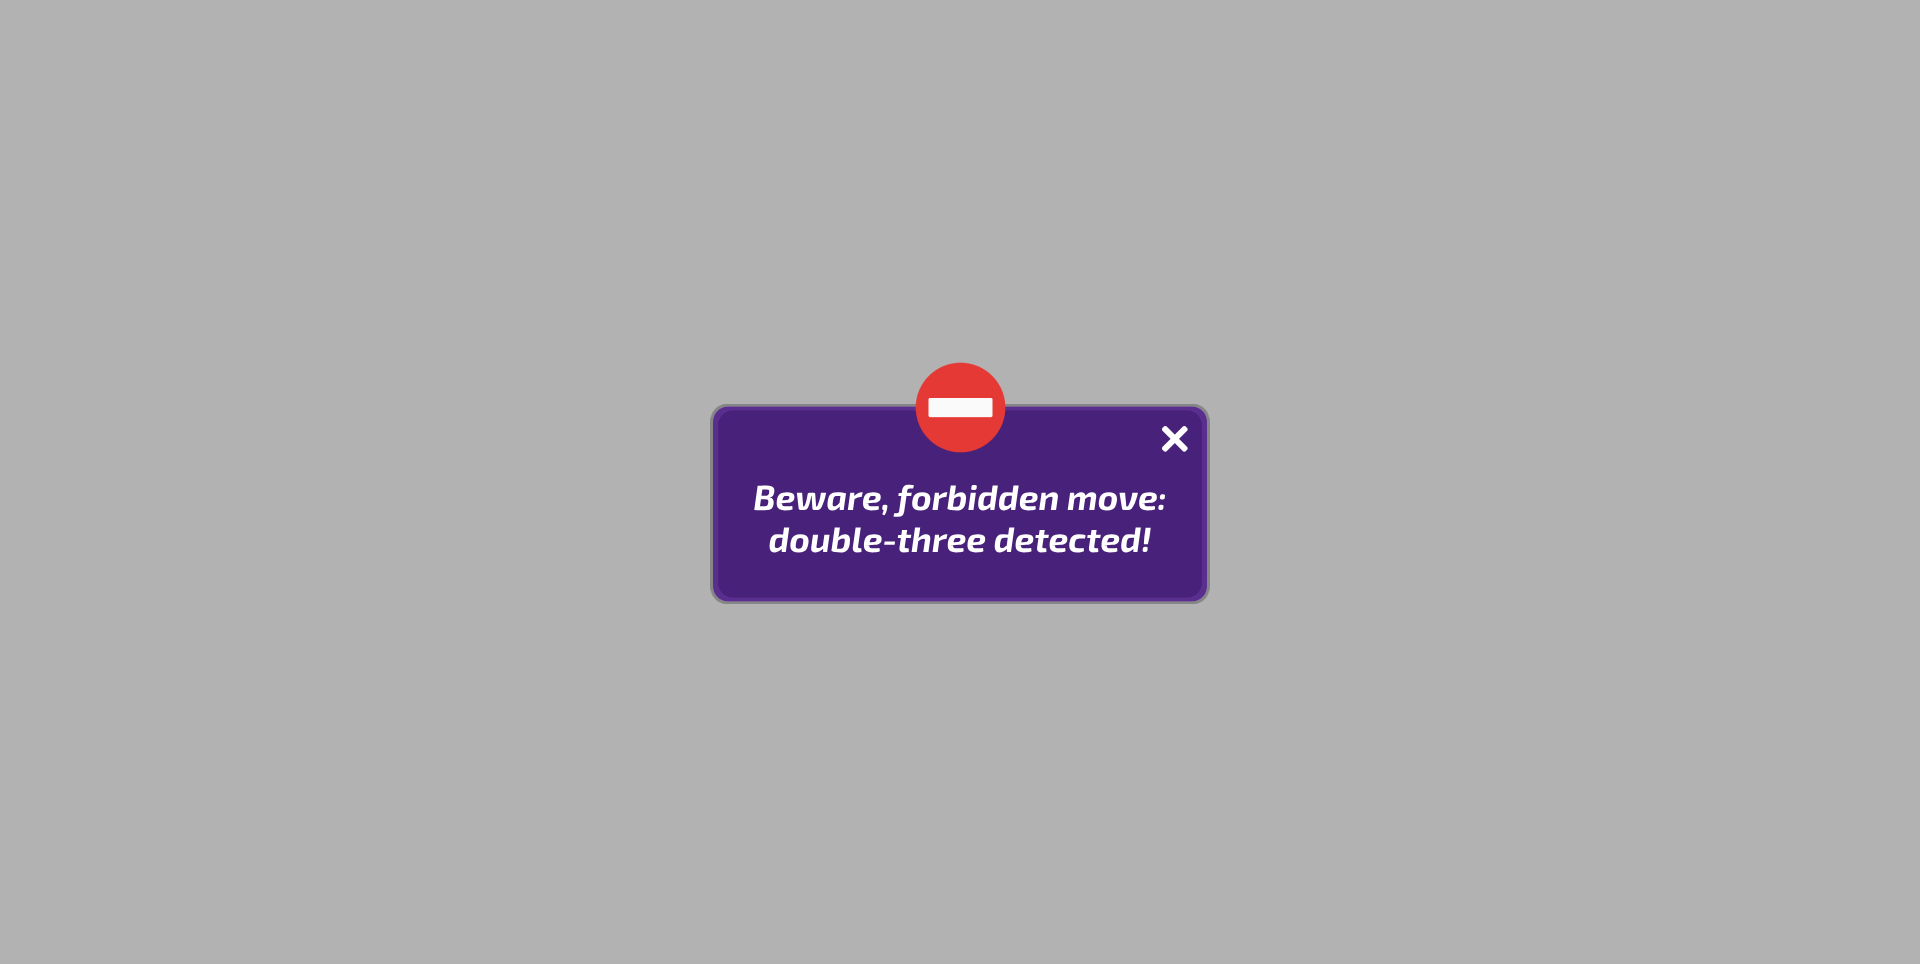
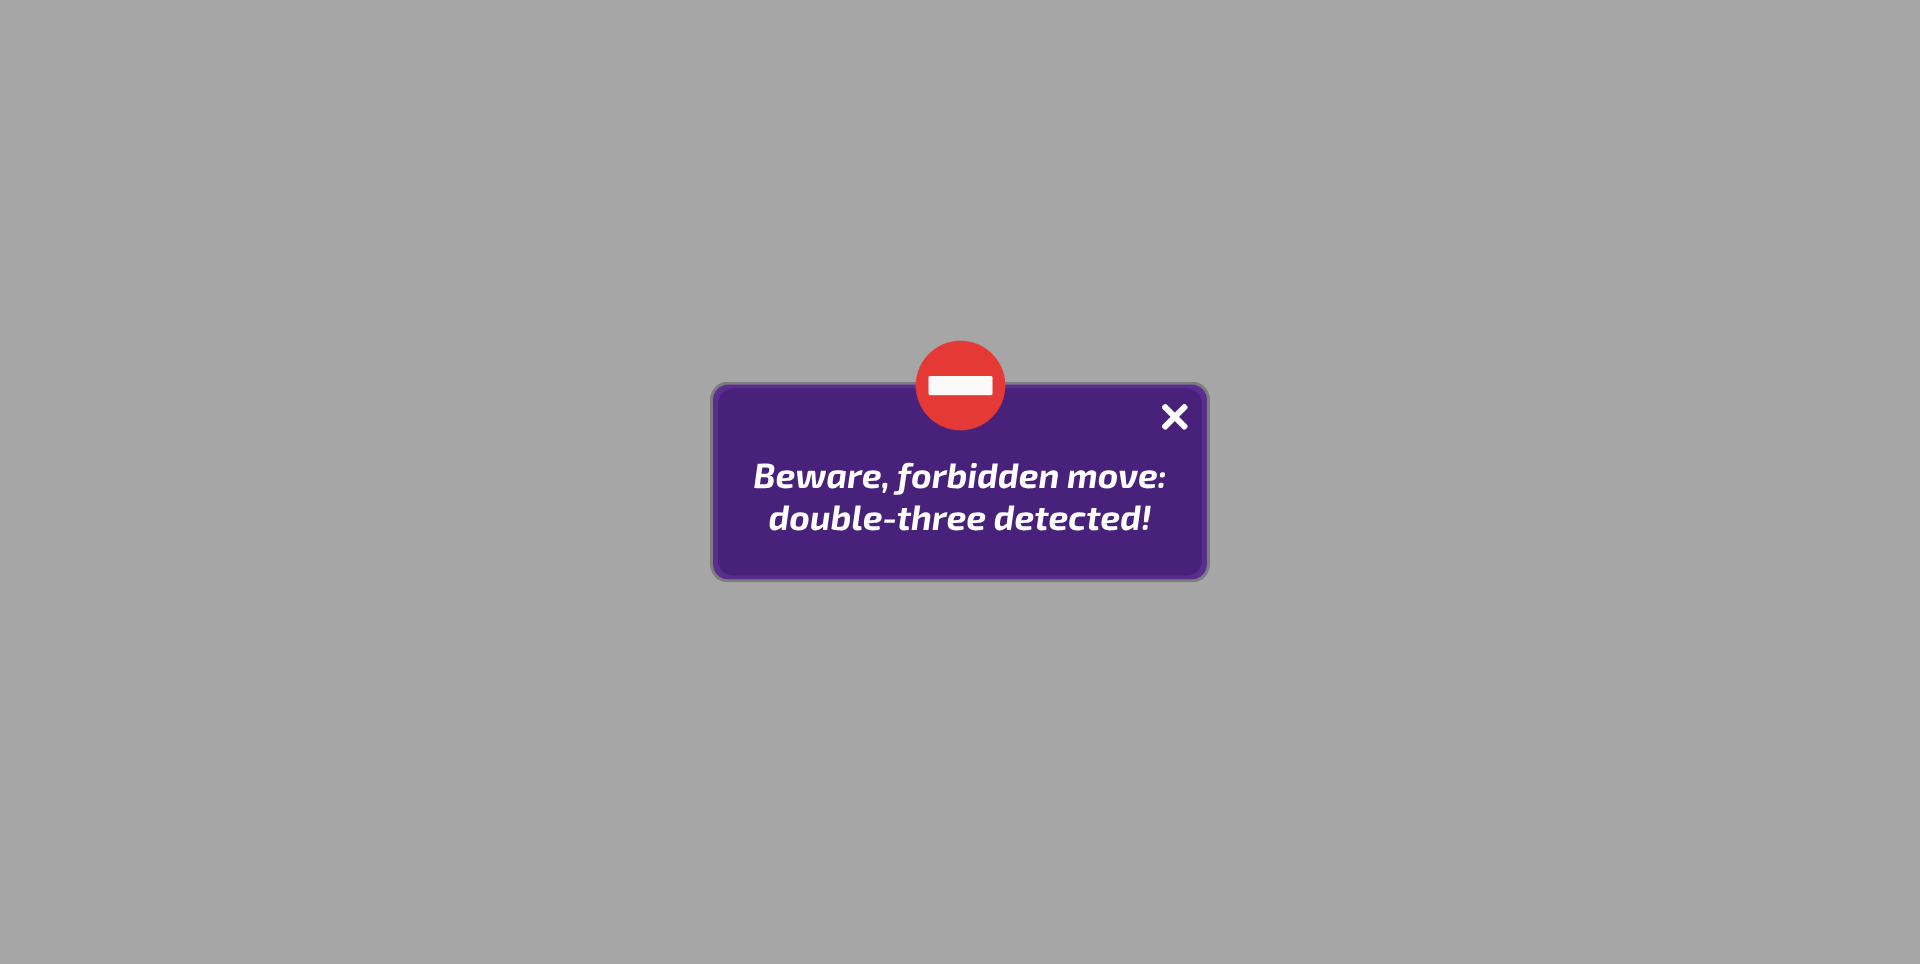
Finishing double-three pop-up

Changed region(s): [[0.3438, 0.3423, 0.6562, 0.6535]]

diff --git a/src/Graphics/Game/Gameplay.cpp b/src/Graphics/Game/Gameplay.cpp
@@ -6,7 +6,7 @@
 /*   By: laprieur <laprieur@student.42.fr>          +#+  +:+       +#+        */
 /*                                                +#+#+#+#+#+   +#+           */
 /*   Created: 2024/07/30 14:10:25 by hsebille          #+#    #+#             */
-/*   Updated: 2024/08/01 23:39:45 by laprieur         ###   ########.fr       */
+/*   Updated: 2024/08/02 15:28:09 by laprieur         ###   ########.fr       */
 /*                                                                            */
 /* ************************************************************************** */
 
@@ -34,10 +34,8 @@ void	Gameplay::display(const sf::Event& event, sf::RenderWindow& window, const B
 	window.draw(_secondPlayerAvatarSprite);
 	window.draw(_gridAndIndexSprite);
 	drawStones(window, bitboard);
-	if (forbiddenMoves == DOUBLE_THREE) {
-		_popupSprite.setTexture(_popupTexture);
-		window.draw(_popupSprite);
-	}
+	if (forbiddenMoves == DOUBLE_THREE)
+		popUp(event, window);
 }
 
 void	Gameplay::returnButton(const sf::Event& event, const sf::RenderWindow& window) {
@@ -50,6 +48,21 @@ void	Gameplay::returnButton(const sf::Event& event, const sf::RenderWindow& wind
 	if (event.type == sf::Event::MouseButtonPressed)
 		if (_backwardButtonSprite.getGlobalBounds().contains(window.mapPixelToCoords(sf::Mouse::getPosition(window))))
 			gameState = MENU;
+}
+
+void	Gameplay::popUp(const sf::Event& event, sf::RenderWindow& window) {
+	_popupSprite.setTexture(_popupTexture);
+	window.draw(_popupSprite);
+	sf::RectangleShape clickableZone(sf::Vector2f(26, 26));
+    clickableZone.setPosition(1162, 404);
+    clickableZone.setFillColor(sf::Color(0, 0, 0, 0));
+	window.draw(clickableZone);
+	sf::Vector2i mousePos = sf::Mouse::getPosition(window);
+	if (event.type == sf::Event::MouseButtonReleased && event.mouseButton.button == sf::Mouse::Left
+		&& clickableZone.getGlobalBounds().contains(static_cast<sf::Vector2f>(mousePos))) {
+		forbiddenMoves = NOFORBIDDENMOVE;
+		window.clear();
+	}
 }
 
 void	Gameplay::drawStones(sf::RenderWindow& window, const Bitboard& bitboard) {

diff --git a/include/Graphics/Game/Gameplay.hpp b/include/Graphics/Game/Gameplay.hpp
@@ -6,7 +6,7 @@
 /*   By: laprieur <laprieur@student.42.fr>          +#+  +:+       +#+        */
 /*                                                +#+#+#+#+#+   +#+           */
 /*   Created: 2024/07/10 14:03:52 by laprieur          #+#    #+#             */
-/*   Updated: 2024/08/01 22:58:50 by laprieur         ###   ########.fr       */
+/*   Updated: 2024/08/02 14:38:10 by laprieur         ###   ########.fr       */
 /*                                                                            */
 /* ************************************************************************** */
 
@@ -54,6 +54,7 @@ class Gameplay {
 		void	init();
 		void	display(const sf::Event& event, sf::RenderWindow& window, const Bitboard& bitboard);
 		void	returnButton(const sf::Event& event, const sf::RenderWindow& window);
+		void	popUp(const sf::Event& event, sf::RenderWindow& window);
 		void	drawStones(sf::RenderWindow& window, const Bitboard& bitboard);
 		void	defineStones();
 		void	defineAvatars();
